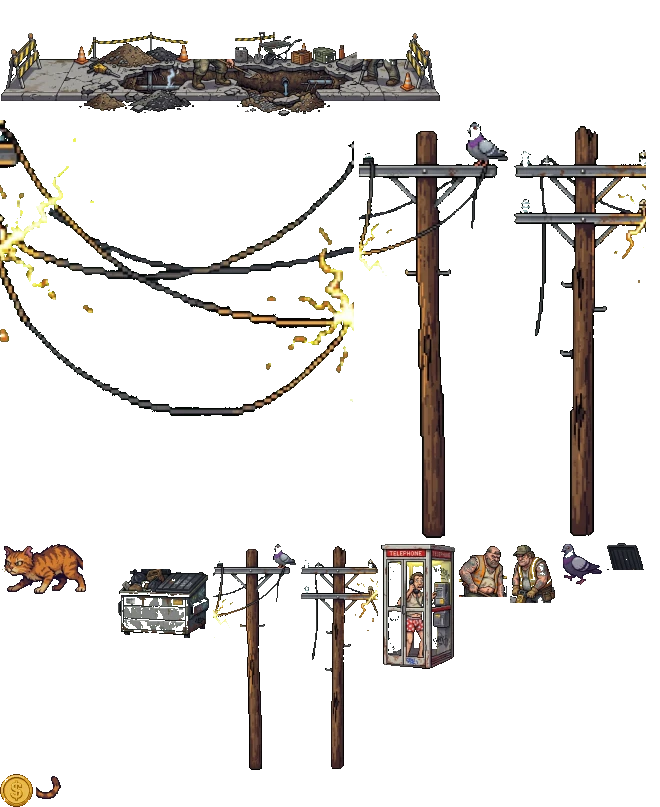
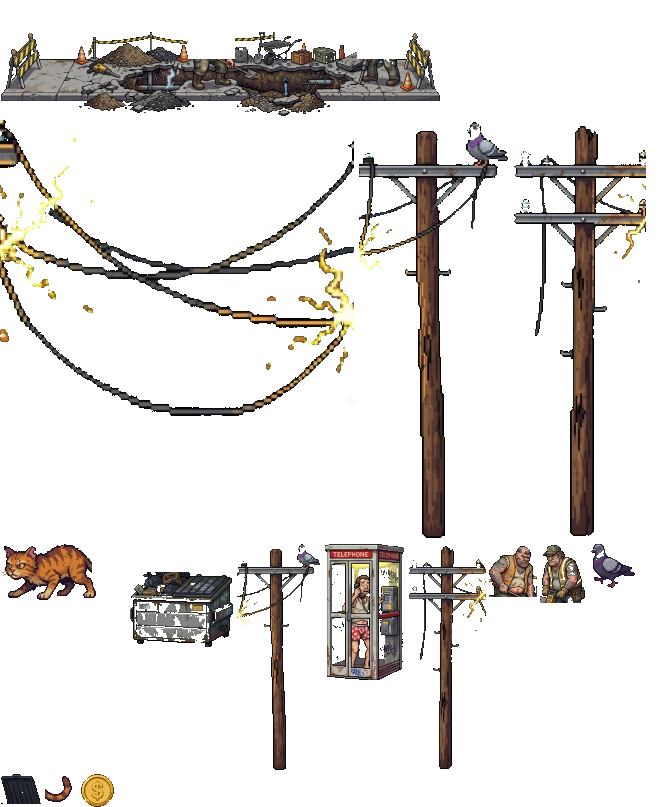
Level 2: financial-district street and scaffolding climb; obstacles 10% bigger and sitting on the ground
Claude-Session: https://claude.ai/code/session_01KrEeTDAb27Eghe9M8znsQu

Changed region(s): [[0.1818, 0.6506, 0.9697, 0.9603], [0.0, 0.6506, 0.1515, 0.7435], [0.0, 0.9603, 0.1818, 1.0]]

diff --git a/index.html b/index.html
@@ -645,10 +645,28 @@ function fogAmt(){const w=G&&G.weather==='fog'?1.5:G&&(G.weather==='rain'||G.wea
 function drawFog(y0,h,a,off,col){const F=fogTint(col),TW=W*1.5;ctx.save();ctx.imageSmoothingEnabled=true;ctx.globalAlpha=Math.min(1,a);let i=Math.floor(off/TW),x=i*TW-off;for(;x<W;x+=TW,i++){if(x+TW<0)continue;if(i&1){ctx.save();ctx.translate(x+TW,0);ctx.scale(-1,1);ctx.drawImage(F,0,y0,TW,h);ctx.restore()}else ctx.drawImage(F,x,y0,TW,h)}ctx.restore()}
 function difficulty(){return G.mode==='trip'?TRIPS[G.trip].diff+.25*clamp(G.genX/G.len,0,1):Math.min(1,G.genX/25000)}
 function nextZone(){G.pi++;const pl=G.plan[G.pi%G.plan.length];G.zone=pl[0];G.zoneEnd=G.genX+(pl[1]||1e9);
- G.marks.push({x:G.genX+20,name:ZNAME[G.zone]});if(G.zone==='scaffold')G.decor.push({k:'site',x0:G.genX+4,x1:null,top:ROOF_Y})}
+ G.marks.push({x:G.genX+20,name:ZNAME[G.zone]});if(G.zone==='scaffold'&&!ART.ready)G.decor.push({k:'site',x0:G.genX+4,x1:null,top:ROOF_Y})}
 const HAZ_AFTER={chinatown:['rat','firecracker'],street:['pigeon','cat'],roof:['bags','wire'],park:['sprinkler','sprinkler'],beach:['crab','crab'],docks:['steam','steam']};
-const CHAIN={chinatown:['noodlecart','veggie','lion','urn'],street:['dumpster','booth','prod3','cpair','roadwork','dumpster'],roof:['duct','solar','skylight','tank'],park:['picnic','hedgebox','fountain','bench'],beach:['surfrack','esky','sandcastle'],docks:['forklift','pallet','barrel','rope']};
-function placeObs(x,w,y,zone,d){const n0=G.obs.length;if(zone==='street'&&w>=250&&ART.ready&&rng()<.2){const bx=x+Math.round((w-147)/2);addObs(bx,y,'rwbase');addObs(bx+64,y-1,'digger').sy=y;addObs(bx+121,y-2,'jack').sy=y;for(let j=0;j<4;j++)addCoin(bx+64+j*5,y-36);for(let j=0;j<4;j++)addCoin(bx+121+j*5,y-38);return}placeObs0(x,w,y,zone,d);if(zone==='street')for(let i=n0;i<G.obs.length;i++)G.obs[i].grit=1;if(PED_ZONES[zone]&&y>=STREET_Y-4&&w>=150&&rng()<.4+.3*d)placePed(x,w,y,zone)}
+const CHAIN={fin:['dumpster','cpair','barri','can','cpair'],chinatown:['noodlecart','veggie','lion','urn'],street:['dumpster','booth','prod3','cpair','roadwork','dumpster'],roof:['duct','solar','skylight','tank'],park:['picnic','hedgebox','fountain','bench'],beach:['surfrack','esky','sandcastle'],docks:['forklift','pallet','barrel','rope']};
+function genScaffold(d){// stepped towers of the scaffolding art, bolted on top of each other: climb deck to deck up to the rooftops
+ const cols=[1,2,3,3],step=Math.round(SCM.dx1-SCM.dx0)-1,X0=G.genX,tw=cols.length*step;
+ addPlat(X0,STREET_Y,tw+10,'street');G.lastPlat.nocue=1;placeObs(X0+30,step*2,STREET_Y,'street',d);
+ G.decor.push({k:'scaf',x0:X0-20,x1:X0+tw+20,X0,cols,step});
+ const decks=[];
+ for(let c=0;c<cols.length;c++)for(let u=0;u<cols[c];u++){const base=STREET_Y-u*SCOFF;
+  for(const [dy,top] of [[SCM.feet-SCM.deckL,0],[SCM.feet-SCM.deckU,u===cols[c]-1]]){const p=addPiece({type:'deck',thin:1,x:X0+c*step,y:Math.round(base-dy),w:step+1});decks.push({p,c,top})}}
+ for(const q of decks){const p=q.p;if(q.c===0&&p.y>STREET_Y-50)continue;
+  if(rng()<.38+.2*d){let k=POOLS.deck[Math.floor(rng()*POOLS.deck.length)];const ox=p.x+Math.round(R(70,p.w-90));const ob=addObs(ox,p.y,k);ob.deck=1;if(ob.solid)for(let j=0;j*9<ob.w-4;j++)addCoin(ob.x+4+j*9,p.y-ob.h-10)}
+  else if(rng()<.5)for(let i=0;i<4;i++)addCoin(p.x+60+i*12,p.y-12)}
+ // coin trail up the first climb
+ for(let i=0;i<3;i++)addCoin(X0+step-70+i*14,STREET_Y-SCOFF-20-i*12);
+ G.genX=X0+tw;G.genY=Math.round(STREET_Y-(cols[cols.length-1]-1)*SCOFF-(SCM.feet-SCM.deckU));
+ const site=null;nextZone();const x=G.genX+2,w=Math.round(R(200,280));addPlat(x,G.genY,w,'roof');placeObs(x,w,G.genY,'roof',d);G.genX=x+w}
+function drawScaf(d,cam){if(!ART.scaf)return;const M=SCM;
+ for(let c=0;c<d.cols.length;c++){const sx=Math.round(d.X0+c*d.step-M.dx0-cam);if(sx>W+10||sx+M.w<-10)continue;
+  for(let u=0;u<d.cols[c];u++){const top=STREET_Y-u*SCOFF-M.feet,cy=u===d.cols[c]-1?0:M.cut;
+   ARTI(ART.scaf,0,Math.round(cy*AS),M.w*AS,Math.round((M.h-cy)*AS),sx,top+cy,M.w,M.h-cy)}}}
+function placeObs(x,w,y,zone,d){const n0=G.obs.length;if(zone==='street'&&!isFin()&&w>=250&&ART.ready&&rng()<.2){const bx=x+Math.round((w-147)/2);addObs(bx,y,'rwbase');addObs(bx+64,y-1,'digger').sy=y;addObs(bx+121,y-2,'jack').sy=y;for(let j=0;j<4;j++)addCoin(bx+64+j*5,y-36);for(let j=0;j<4;j++)addCoin(bx+121+j*5,y-38);return}placeObs0(x,w,y,zone,d);if(zone==='street')for(let i=n0;i<G.obs.length;i++)G.obs[i].grit=1;if(PED_ZONES[zone]&&y>=STREET_Y-4&&w>=150&&rng()<.4+.3*d)placePed(x,w,y,zone)}
 const PED_ZONES={};
 const PED_LOOKS=[{},{T:'R',t:'r',H:'Y',h:'y'},{T:'B',t:'b',H:'D',h:'E',S:'C',s:'c'},{G:'T',g:'t',H:'D',h:'E'},{G:'R',g:'r',S:'C',s:'c',H:'E',h:'E'},{T:'P',t:'R',H:'h',h:'E'},{G:'Y',g:'y',N:'D',n:'E',H:'Y',h:'y'},{G:'B',g:'b',S:'C',s:'c'}];
 function placePed(x,w,y,zone){const obs=G.obs.filter(o=>o.y===y&&o.x+o.w>x&&o.x<x+w).sort((a,b)=>a.x-b.x);let lo=x+16,best=null;
@@ -656,22 +674,23 @@ function placePed(x,w,y,zone){const obs=G.obs.filter(o=>o.y===y&&o.x+o.w>x&&o.x<
  if(!best)return;const p=addObs(best[1]-14,y,'ped');p.lo=best[0];p.hi=best[1]-12;p.dir=-1;p.spd=R(18,30);p.man=rng()<.5;p.look=Math.floor(rng()*PED_LOOKS.length);p.bnc=0}
 function bagPick(pool){if(!G.bag||!G.bag.length){const b=[...new Set(pool)];for(let i=b.length-1;i>0;i--){const j=Math.floor(rng()*(i+1));[b[i],b[j]]=[b[j],b[i]]}G.bag=b}return G.bag.pop()}
 function placeObs0(x,w,y,zone,d){
- if(CHAIN[zone]&&w>=220&&rng()<.35+.25*d){let cx=x+Math.round(R(30,44)),n=0;
-  while(n<3){const opts=CHAIN[zone].filter(k=>cx+OBS[k].w<=x+w-26);if(!opts.length)break;const k=opts[Math.floor(rng()*opts.length)];const ob=addObs(cx,y,k);n++;
-   if(n>1&&rng()<.3+.3*d)addObs(ob.x+Math.round(ob.w*R(.4,.6))-5,y-ob.h,zone==='street'?'pigeon':'bird');else for(let j=0;j*11<ob.w-8;j++)addCoin(ob.x+5+j*11,y-ob.h-10);
-   const gap=Math.round(rng()<.4?0:R(14,24));if(gap>=14&&rng()<.75)addObs(ob.x+ob.w+Math.round((gap-10)/2),y,zone==='street'?(rng()<.5?'pigeon':'cone2'):zone==='beach'?'crab':zone==='docks'?'gull':'bird');
+ const fin=zone==='street'&&isFin(),CH=fin?CHAIN.fin:CHAIN[zone];
+ if(CH&&w>=220&&rng()<.35+.25*d){let cx=x+Math.round(R(30,44)),n=0;
+  while(n<3){const opts=CH.filter(k=>cx+OBS[k].w<=x+w-26);if(!opts.length)break;const k=opts[Math.floor(rng()*opts.length)];const ob=addObs(cx,y,k);n++;
+   if(n>1&&!fin&&rng()<.3+.3*d)addObs(ob.x+Math.round(ob.w*R(.4,.6))-5,y-ob.h,zone==='street'?'pigeon':'bird');else for(let j=0;j*11<ob.w-8;j++)addCoin(ob.x+5+j*11,y-ob.h-10);
+   const gap=Math.round(rng()<.4?0:R(14,24));if(gap>=14&&rng()<.75)addObs(ob.x+ob.w+Math.round((gap-10)/2),y,zone==='street'?(fin?'bag1':rng()<.5?'pigeon':'cone2'):zone==='beach'?'crab':zone==='docks'?'gull':'bird');
    cx=ob.x+ob.w+gap}
   if(n>=1){if(rng()<(G.mode==='trip'?.13:.1)){G.items.push({x:x+w*.5,y:y-60,type:pickPower(),ph:0})}return}}
- let placed=0,ox=x+R(34,50);const nObs=w>90&&rng()<.6+.35*d?1+Math.floor(rng()*(w>170?3:2)):0;const pool=POOLS[zone];
+ let placed=0,ox=x+R(34,50);const nObs=w>90&&rng()<.6+.35*d?1+Math.floor(rng()*(w>170?3:2)):0;const pool=fin?POOLS.fin:POOLS[zone];
  for(let i=0;i<nObs;i++){if(ox>x+w-44)break;
   let k=zone==='street'?bagPick(pool):pool[Math.floor(rng()*pool.length)];if(ox+OBS[k].w>x+w-24){const fits=pool.filter(q=>ox+OBS[q].w<=x+w-24);if(!fits.length)break;k=fits[Math.floor(rng()*fits.length)]}
   const ob=addObs(ox,y,k);placed++;let end=ox+ob.w;
   if(ob.w>=40){const top=y-ob.h;
-   if(rng()<.3+.35*d){const hk=zone==='street'?(rng()<.5?'pigeon':'cat'):k==='skip'?'bag1':(k==='planter'?'dog':(zone==='beach'||zone==='docks')?'gull':'bird');const hz=addObs(ob.x+Math.round(ob.w*R(.45,.65)-OBS[hk].w/2),top,hk);coinArc(hz.x-14,hz.x+hz.w+14,top-hz.h-20)}
+   if(!fin&&rng()<.3+.35*d){const hk=zone==='street'?(rng()<.5?'pigeon':'cat'):k==='skip'?'bag1':(k==='planter'?'dog':(zone==='beach'||zone==='docks')?'gull':'bird');const hz=addObs(ob.x+Math.round(ob.w*R(.45,.65)-OBS[hk].w/2),top,hk);coinArc(hz.x-14,hz.x+hz.w+14,top-hz.h-20)}
    else for(let j=0;j*11<ob.w-8;j++)addCoin(ob.x+5+j*11,top-10);
    ox=end+R(42,78);continue}
   if(k==='crate'&&zone==='roof'&&rng()<.35&&end+16<x+w-24){const st=addObs(end,y,'crates');end+=st.w;for(let j=0;j<2;j++)addCoin(st.x+4+j*8,y-st.h-10)}
-  else if(ob.solid&&ob.h>=12&&HAZ_AFTER[zone]&&rng()<.25+.35*d&&end+34<x+w-24){const hz=addObs(end+2,y,HAZ_AFTER[zone][Math.floor(rng()*2)]);end=hz.x+hz.w}
+  else if(ob.solid&&ob.h>=12&&!fin&&HAZ_AFTER[zone]&&rng()<.25+.35*d&&end+34<x+w-24){const hz=addObs(end+2,y,HAZ_AFTER[zone][Math.floor(rng()*2)]);end=hz.x+hz.w}
   if(ob.solid&&rng()<.5){for(let j=0;j*9<ob.w-4;j++)addCoin(ob.x+4+j*9,y-ob.h-10)}
   else if(rng()<.6)coinArc(ox-18,end+18,y-ob.h-22);
   ox=end+R(42,78)}
@@ -783,6 +802,7 @@ function gen(){
   const x=G.genX+gap,w=Math.round(R(200,360)),y=STREET_Y;
   if(gap>18&&(gap>60||rng()<.6))coinArc(G.genX-6,x+6,y-34-(gap>60?14:0));
   addPlat(x,y,w,'street');placeObs(x,w,y,'street',d);G.genX=x+w;G.genY=y;return}
+ if(G.zone==='scaffold'&&ART.ready){genScaffold(d);return}
  if(G.zone==='scaffold'){
   if(G.genY<=ROOF_Y+1){const site=G.decor[G.decor.length-1];nextZone();if(site&&site.x1==null)site.x1=G.genX+2;
    const x=G.genX+2,w=Math.round(R(200,280));addPlat(x,ROOF_Y,w,'roof');placeObs(x,w,ROOF_Y,'roof',d);G.genX=x+w;G.genY=ROOF_Y;return}
@@ -804,7 +824,7 @@ function gen(){
   if(w>66&&rng()<.4){const k=POOLS.fire[Math.floor(rng()*2)];addObs(x+Math.round(w/2),y,k)}else for(let i=0;i<3;i++)addCoin(x+w/2-12+i*12,y-12);
   G.genX=x+w;G.genY=y;return}
 }
-const OBS={booth:{w:22,h:42,solid:1,b2:1},dumpster:{w:29,h:26,solid:1,b2:1},cat:{w:29,h:15,hazard:'HISSS! ANGRY CAT!',b2:1},pigeon:{w:11,h:11,hazard:'PECKED BY A PIGEON!',b2:1},digger:{w:12,h:22,hazard:'OI! WATCH IT!',b2:1},jack:{w:12,h:24,hazard:'RATATATAT! JACKHAMMERED!',b2:1},rwbase:{w:147,h:1,deco:1,b2:1},tcan:{w:14,h:20,solid:1},stoop:{w:34,h:26,solid:1,spr:1},hyd:{w:11,h:22,solid:1,spr:1},hydy:{w:11,h:22,solid:1,spr:1},bagpile:{w:38,h:19,hazard:'YUCK! GARBAGE!',spr:1},can:{w:19,h:21,solid:1,spr:1},bcan:{w:15,h:20,solid:1,spr:1},bag1:{w:19,h:12,hazard:'YUCK! GARBAGE!',spr:1},roadwork:{w:26,h:22,solid:1,spr:1},boxes2:{w:19,h:20,solid:1,spr:1},boxopen:{w:20,h:14,solid:1,spr:1},cone2:{w:6,h:8,solid:1,spr:1},barri:{w:22,h:21,solid:1,spr:1},gravel:{w:19,h:19,solid:1,spr:1},prod2:{w:16,h:18,solid:1,spr:1},prod1:{w:17,h:18,solid:1,spr:1},crate1:{w:19,h:19,solid:1,spr:1},crate2:{w:20,h:19,solid:1,spr:1},prod3:{w:29,h:17,solid:1,spr:1},drunk:{w:13,h:33,hazard:'HIC! GRUMPY OLD MAN!',spr:1},boxes:{w:18,h:16,solid:1},newsbox:{w:12,h:20,solid:1},case1:{w:14,h:10,solid:1},case2:{w:18,h:16,solid:1},roofbox:{w:30,h:9,solid:1},cone:{w:10,h:14,solid:1},crate:{w:16,h:16,solid:1},crates:{w:16,h:32,solid:1},ac:{w:20,h:14,solid:1},vent:{w:10,h:18,solid:1},chimney:{w:14,h:24,solid:1},tank:{w:22,h:22,solid:1},
+const OBS={booth:{w:24,h:46,solid:1,b2:1},dumpster:{w:32,h:29,solid:1,b2:1},cat:{w:32,h:17,hazard:'HISSS! ANGRY CAT!',b2:1},pigeon:{w:12,h:12,hazard:'PECKED BY A PIGEON!',b2:1},digger:{w:12,h:22,hazard:'OI! WATCH IT!',b2:1},jack:{w:12,h:24,hazard:'RATATATAT! JACKHAMMERED!',b2:1},rwbase:{w:147,h:1,deco:1,b2:1},tcan:{w:14,h:20,solid:1},stoop:{w:34,h:26,solid:1,spr:1},hyd:{w:11,h:22,solid:1,spr:1},hydy:{w:11,h:22,solid:1,spr:1},bagpile:{w:38,h:19,hazard:'YUCK! GARBAGE!',spr:1},can:{w:19,h:21,solid:1,spr:1},bcan:{w:15,h:20,solid:1,spr:1},bag1:{w:19,h:12,hazard:'YUCK! GARBAGE!',spr:1},roadwork:{w:26,h:22,solid:1,spr:1},boxes2:{w:19,h:20,solid:1,spr:1},boxopen:{w:20,h:14,solid:1,spr:1},cone2:{w:6,h:8,solid:1,spr:1},barri:{w:22,h:21,solid:1,spr:1},gravel:{w:19,h:19,solid:1,spr:1},prod2:{w:16,h:18,solid:1,spr:1},prod1:{w:17,h:18,solid:1,spr:1},crate1:{w:19,h:19,solid:1,spr:1},crate2:{w:20,h:19,solid:1,spr:1},prod3:{w:29,h:17,solid:1,spr:1},drunk:{w:13,h:33,hazard:'HIC! GRUMPY OLD MAN!',spr:1},boxes:{w:18,h:16,solid:1},newsbox:{w:12,h:20,solid:1},case1:{w:14,h:10,solid:1},case2:{w:18,h:16,solid:1},roofbox:{w:30,h:9,solid:1},cone:{w:10,h:14,solid:1},crate:{w:16,h:16,solid:1},crates:{w:16,h:32,solid:1},ac:{w:20,h:14,solid:1},vent:{w:10,h:18,solid:1},chimney:{w:14,h:24,solid:1},tank:{w:22,h:22,solid:1},
  bin:{w:14,h:20,solid:1},hydrant:{w:10,h:13,solid:1},bench:{w:40,h:11,solid:1},busstop:{w:72,h:30,solid:1},skip:{w:52,h:20,solid:1},planter:{w:56,h:11,solid:1},duct:{w:84,h:14,solid:1},solar:{w:62,h:14,solid:1},skylight:{w:42,h:9,solid:1},timber:{w:44,h:8,solid:1},postbox:{w:12,h:22,solid:1},aframe:{w:12,h:14,solid:1},
  paint:{w:9,h:10,solid:1},bricks:{w:16,h:10,solid:1},cement:{w:18,h:8,solid:1},toolbox:{w:14,h:9,solid:1},pot:{w:9,h:10,solid:1},
  bags:{w:20,h:12,hazard:'YUCK! GARBAGE!'},wire:{w:28,h:9,hazard:'OUCH! BARBED WIRE!'},fuse:{w:12,h:16,hazard:'ZAPPED!'},tv:{w:13,h:22,hazard:'TANGLED!'},bird:{w:10,h:10,hazard:'PECKED!'},
@@ -814,7 +834,10 @@ const OBS={booth:{w:22,h:42,solid:1,b2:1},dumpster:{w:29,h:26,solid:1,b2:1},cat:
  sprinkler:{w:16,h:14,hazard:'SOAKED!'},magpie:{w:12,h:9,hazard:'SWOOPED BY A MAGPIE!'},crab:{w:12,h:7,hazard:'PINCHED!'},gull:{w:11,h:10,hazard:'SEAGULL ATTACK!'},steam:{w:10,h:30,hazard:'SCALDED!'},nails:{w:18,h:5,hazard:'OUCH! NAILS!'},ped:{w:12,h:22,hazard:'OOF! WALKED INTO SOMEONE!'}};
 const POOLS={highway:['case1','case2','roofbox'],chinatown:['noodlecart','veggie','steamer','urn','lion','rat','bird','rat','firecracker','veggie','bin','steamer'],park:['picnic','hedgebox','fountain','bench','bin','sprinkler','magpie','hedgebox','picnic','bird'],beach:['esky','surfrack','sandcastle','crab','gull','esky','surfrack','bin','crab'],docks:['barrel','pallet','forklift','rope','steam','gull','barrel','crate','crates'],
  street:['hyd','hydy','boxes2','boxopen','cpair','cpair','cone2','roadwork','barri','gravel','prod1','prod2','prod3','bagpile','bag1','drunk','drunk','booth','booth','dumpster','dumpster','cat','cat','pigeon','pigeon','dumpster'],roof:['crate','ac','vent','chimney','tank','duct','duct','solar','solar','skylight','bags','wire','fuse','tv','bird'],
- scaffold:['paint','bricks','cement','toolbox','nails','timber','timber'],fire:['pot','bird']};
+ scaffold:['paint','bricks','cement','toolbox','nails','timber','timber'],fire:['pot','bird'],
+ fin:['can','bcan','bagpile','bag1','dumpster','cpair','barri','can','bag1','cpair'],deck:['can','bcan','bag1','bagpile','cpair','barri']};
+const SCM={"w":256,"h":103,"x0":33,"y0":64,"sc":9.8,"deckU":25.61,"deckL":62.86,"feet":101.84,"cut":20.2,"dx0":6.33,"dx1":250.71,"wall":{"x":257,"w":44,"h":100}},SCOFF=SCM.feet-SCM.deckU;
+function isFin(){return G&&G.mode==='trip'&&G.trip===1}
 function addObs(x,y,k){if(k==='booth'){if(G.lastBooth!=null&&Math.abs(x-G.lastBooth)<320)k='dumpster';else G.lastBooth=x}const o={x:Math.round(x),y,k,w:OBS[k].w,h:OBS[k].h,solid:!!OBS[k].solid,ph:Math.random()*6};G.obs.push(o);return o}
 
 function dustFX(x,y,pw){// pixel dust clouds that roll outward from a jump/landing
@@ -986,6 +1009,7 @@ function update(dt){
  G.shield=Math.max(0,G.shield-dt);G.landT+=dt;
  const rbw=G.power&&G.power.type==='rainbow';
  if(!flying&&(!(G.shield>0)||rbw))for(const o of G.obs){if(o.dead||o.off||OBS[o.k].deco)continue;
+  if(o.deck&&!(G.grounded&&prevX+4<=o.x+1)&&!(o.solid?false:G.vy>0&&prevY<=o.y-o.h+5))continue;
   if(o.solid){if(G.x+4>o.x&&G.x-4<o.x+o.w&&G.y>o.y-o.h+3&&G.y-24<o.y){if(rbw){smash(o);continue}crash('BONK!');return}}
   else if(G.x+3>o.x+2&&G.x-3<o.x+o.w-2&&G.y>o.y-o.h+3&&G.y-22<o.y){if(o.k==='ped'){if(o.bnc>0||rbw)continue;if(G.vy>0&&prevY<=o.y-o.h+7){pedBounce(o);continue}}if((o.k==='bird'||o.k==='gull'||o.k==='magpie'||o.k==='rat'||o.k==='pigeon'||o.k==='cat')&&G.vy>0&&prevY<=o.y-o.h+5){stomp(o);continue}if(rbw){smash(o);continue}if(o.k==='cat'){o.dead=true;o.st='run';o.t=0;sfx(900,300,.25,'sawtooth',.04)}crash(OBS[o.k].hazard);return}}
  // trick progress
@@ -1609,11 +1633,11 @@ function gritify(g,w,h,seed){let id;try{id=g.getImageData(0,0,w,h)}catch(e){retu
   if(hash(p*1.37+seed)<.05){d[i]*=.72;d[i+1]*=.68;d[i+2]*=.66}}g.putImageData(id,0,0)}
 
 
-const RWD=12;
+const RWD=12,OSINK=2;
 function SHD(on){if(on){ctx.shadowColor='rgba(6,0,14,.75)';ctx.shadowBlur=9;ctx.shadowOffsetX=4;ctx.shadowOffsetY=3}else{ctx.shadowColor='transparent';ctx.shadowBlur=0;ctx.shadowOffsetX=0;ctx.shadowOffsetY=0}}
 function O2(k,dx,dy,dw,dh){const Q=OB2[k];ARTI(ART.obs2,Q.x*AS,Q.y*AS,Q.w*AS,Q.h*AS,dx,dy,dw==null?Q.w:dw,dh==null?Q.h:dh)}
 function drawB2(o,x){ctx.save();if(o.k!=='rwbase'&&o.k!=='digger'&&o.k!=='jack')SHD(1);try{drawB2i(o,x)}finally{ctx.restore()}}
-function drawB2i(o,x){const y=o.y,Q=OB2[o.k],t=clock+o.ph,k=o.k;
+function drawB2i(o,x){const y=o.y+(o.k==='rwbase'||o.k==='digger'||o.k==='jack'?0:OSINK),Q=OB2[o.k],t=clock+o.ph,k=o.k;
  if(o.dead&&o.st==='run'&&k==='cat'){// bolts off to the left, galloping
   const g=Math.sin(o.t*26),X=x+Math.round((o.w-Q.w)/2);ctx.save();ctx.translate(X+Q.w/2,y);ctx.rotate(g*.08);ctx.scale(1+.08*g,1-.08*g);O2(k,-Q.w/2,-Q.h-Math.abs(g)*3);ctx.translate(-Q.w/2+CATTAIL[0],-Q.h+CATTAIL[1]+OB2.cattail.h-Math.abs(g)*3);ctx.rotate(-.6);O2('cattail',0,-OB2.cattail.h);ctx.restore();
   if(Math.random()<.3)G.parts.push({x:o.x+o.w,y:y-1,vx:20+Math.random()*30,vy:-15-Math.random()*20,life:.4,col:'#8a8ea8',g:60,s:1});if(o.t<.6)txtB('MRROW!',x+o.w/2,y-Q.h-6,'#ff9a3c','center');return}
@@ -1648,7 +1672,7 @@ const SRIM={};function sprRim(k,col){const key=k+col;let c=SRIM[key];if(c)return
  const t=document.createElement('canvas');t.width=w;t.height=h;const tg=t.getContext('2d');tg.imageSmoothingEnabled=true;tg.drawImage(ART.obs,Q.x*AS,Q.y*AS,Q.w*AS,Q.h*AS,0,0,w,h);tg.globalCompositeOperation='source-in';tg.fillStyle=col;tg.fillRect(0,0,w,h);
  c=document.createElement('canvas');c.width=w+R*2;c.height=h+R*2;const g=c.getContext('2d');g.shadowColor=col;g.shadowBlur=2.5;for(let i=0;i<12;i++){const a=i/12*TAU;g.drawImage(t,R+Math.round(Math.cos(a)*2),R+Math.round(Math.sin(a)*2))}
  g.shadowBlur=0;g.globalCompositeOperation='destination-out';g.imageSmoothingEnabled=true;g.drawImage(ART.obs,Q.x*AS,Q.y*AS,Q.w*AS,Q.h*AS,R,R,w,h);c.R=R;return SRIM[key]=c}
-function drawSprObs(o,x){if(o.k==='cpair'){const a=OBSPR.crate2;drawSprObs({k:'crate2',y:o.y,w:a.w,solid:1,ph:o.ph,off:o.off},x);drawSprObs({k:'crate1',y:o.y,w:OBSPR.crate1.w,solid:1,ph:o.ph,off:o.off},x+a.w-1);return}const Q=OBSPR[o.k],y=o.y,haz=!o.solid,sx=x+Math.round((o.w-Q.w)/2);
+function drawSprObs(o,x){if(o.k==='cpair'){const a=OBSPR.crate2;drawSprObs({k:'crate2',y:o.y,w:a.w,solid:1,ph:o.ph,off:o.off},x);drawSprObs({k:'crate1',y:o.y,w:OBSPR.crate1.w,solid:1,ph:o.ph,off:o.off},x+a.w-1);return}const Q=OBSPR[o.k],y=o.y+OSINK,haz=!o.solid,sx=x+Math.round((o.w-Q.w)/2);
  if(o.k!=='drunk'){ctx.fillStyle='rgba(12,4,24,.45)';ctx.fillRect(sx-1,y-1,Q.w+2,2)}
  const rim=sprRim(o.k,haz?'#ff3a6a':'#b44dff'),R=rim.R/S,ra=(o.off?.25:haz?.65+.3*Math.sin(clock*5+o.ph):.95)*.31;
  ctx.save();ctx.imageSmoothingEnabled=false;
@@ -1890,7 +1914,7 @@ function drawRat(o,cam){const xx=Math.round(o.x-cam),yy=Math.round(o.y),R=rmp('#
  fr(R.b,f(8)-(dir>0?0:2),yy-4,3,2);fr('#ff9aa8',f(11),yy-3,1,1);fr(K,f(9),yy-5,1,1);fr('#ff9aa8',f(7),yy-7,2,2);fr(K,f(7)-1,yy-8,1,1);
  fr(K,f(2),yy-1+st,1,1);fr(K,f(4),yy-st,1,1);fr(K,f(7),yy-1+st,1,1);fr(K,f(9),yy-st,1,1)}
 
-function drawPlat(p,cam){if(p.type==='ramp')return drawSlope(p,cam);if(p.type==='wire')return drawWire(p,cam);if(p.type==='sign')return drawGantry(p,cam);if(p.type==='car')return drawVehicle(p,cam);if(p.type==='hwramp')return drawRamp(p,cam);if(p.type==='cstreet')return drawChinatown(p,cam);if(p.type==='grass')return drawGrass(p,cam);if(p.type==='board')return drawBoard(p,cam);if(p.type==='container')return drawContainer(p,cam);if(p.type==='street')drawStreet(p,cam);else if(p.type==='plank')drawPlank(p,cam);else if(p.type==='fire')drawFire(p,cam);else drawRoof(p,cam)}
+function drawPlat(p,cam){if(p.type==='deck')return;if(p.type==='ramp')return drawSlope(p,cam);if(p.type==='wire')return drawWire(p,cam);if(p.type==='sign')return drawGantry(p,cam);if(p.type==='car')return drawVehicle(p,cam);if(p.type==='hwramp')return drawRamp(p,cam);if(p.type==='cstreet')return drawChinatown(p,cam);if(p.type==='grass')return drawGrass(p,cam);if(p.type==='board')return drawBoard(p,cam);if(p.type==='container')return drawContainer(p,cam);if(p.type==='street')drawStreet(p,cam);else if(p.type==='plank')drawPlank(p,cam);else if(p.type==='fire')drawFire(p,cam);else drawRoof(p,cam)}
 function ring(cx,cy,r,col){ctx.fillStyle=col;for(let a=0;a<TAU;a+=.35)ctx.fillRect(Math.round(cx+Math.cos(a)*r),Math.round(cy+Math.sin(a)*r),1,1)}
 const RMP={};
 function rmp(hex){let r=RMP[hex];if(r)return r;r={b:hex,d:mix(shade(hex,.42),'#2a0e3e',.45),s:mix(shade(hex,.72),'#7a1a6a',.22),l:mix(shade(hex,1.14),'#fff0c8',.12),h:mix(shade(hex,1.32),'#fdffb1',.5)};return RMP[hex]=r}
@@ -2136,10 +2160,11 @@ function render(){
  const camY=Math.round(G.camY);VB=camY+H+2;curCam=cam;
  drawBG(cam);
  ctx.save();ctx.translate(0,-camY);
- for(const d of G.decor)drawSite(d,cam);
+ for(const d of G.decor)if(d.k!=='scaf')drawSite(d,cam);
  drawHwyRoad(cam);
  for(const p of G.plats)if(p.type!=='wire'&&p.type!=='ramp')drawPlat(p,cam);
  wetPass(cam);
+ for(const d of G.decor)if(d.k==='scaf')drawScaf(d,cam);
  if(!HIDEHAND||1){const fa=fogAmt();drawFog(Math.round((G.lastLand||STREET_Y)-52),70,.48*fa,cam*1.1+clock*16,fogCol());drawFog(Math.round((G.lastLand||STREET_Y)-150),120,.12*fa,cam*.9+clock*7+500,fogCol())}
  for(const p of G.plats)if(p.type==='wire'||p.type==='ramp')drawPlat(p,cam);
  drawRopes(cam);drawZips(cam);
@@ -2428,10 +2453,10 @@ const DWC=document.createElement('canvas');DWC.width=W*S;DWC.height=H*S;const dw
 
 // ======================= ART PACK: record-store intro, high-street facades, cast =======================
 const ART={n:0,ready:false};
-const OB2={"rwbase":{"x":0,"y":0,"w":147,"h":39},"span":{"x":0,"y":40,"w":118,"h":110},"poleR2":{"x":119,"y":40,"w":51,"h":140},"poleL2":{"x":171,"y":40,"w":45,"h":140},"cat":{"x":0,"y":181,"w":38,"h":17},"dumpster":{"x":39,"y":181,"w":31,"h":32},"poleR":{"x":71,"y":181,"w":28,"h":76},"poleL":{"x":100,"y":181,"w":26,"h":76},"booth":{"x":127,"y":181,"w":25,"h":42},"digger":{"x":153,"y":181,"w":16,"h":18},"jack":{"x":170,"y":181,"w":16,"h":20},"pigeon":{"x":187,"y":181,"w":14,"h":14},"dumplid":{"x":202,"y":181,"w":13,"h":9},"coin":{"x":0,"y":258,"w":11,"h":11},"cattail":{"x":12,"y":258,"w":10,"h":9}},CATTAIL=[27.7, 1.71],DLID=[5.5, 0.0],WPROF=[-35,-35,-34,-29,-21,-10,-2,6,18,21,33,40,46,52,52,42,53,76,81,87,92,97,102,106,111,112,114,119,119,123,123,125,127,130,133,135,136,138,139,141,143,143,143,144,146,146,146,147,149,151,151,151,151,151,151,151,148,146,146,142,141,136,135,133,130,129,124,123,120,119,115,113,109,108,103,100,96,92,92,87,82,78,74,68,63,58,54,50,44,39,34,28,18,-13];
-const HSEGS=[{"x":0,"w":27,"h":178,"y":[0,0,0],"d":0},{"x":27,"w":177,"h":178,"y":[0,0,0],"d":0},{"x":204,"w":89,"h":178,"y":[0,0,0],"d":0},{"x":293,"w":85,"h":178,"y":[0,0,0],"d":0},{"x":378,"w":94,"h":178,"y":[0,0,0],"d":0},{"x":10,"w":136,"h":184,"y":[178,178,178],"d":1},{"x":146,"w":46,"h":184,"y":[178,178,178],"d":1},{"x":192,"w":88,"h":184,"y":[178,178,178],"d":1},{"x":280,"w":88,"h":184,"y":[178,178,178],"d":1},{"x":368,"w":97,"h":184,"y":[178,178,178],"d":1},{"x":0,"w":103,"h":114,"y":[362,362,362],"d":2},{"x":103,"w":129,"h":114,"y":[362,362,362],"d":2}],OBSPR={"stoop":{"x":0,"y":0,"w":42,"h":31},"hyd":{"x":43,"y":0,"w":16,"h":27},"hydy":{"x":60,"y":0,"w":16,"h":27},"bagpile":{"x":77,"y":0,"w":48,"h":28},"can":{"x":126,"y":0,"w":23,"h":27},"bcan":{"x":150,"y":0,"w":19,"h":25},"bag1":{"x":170,"y":0,"w":24,"h":19},"roadwork":{"x":0,"y":32,"w":32,"h":26},"boxes2":{"x":33,"y":32,"w":24,"h":25},"barsign":{"x":58,"y":32,"w":18,"h":45},"open24":{"x":77,"y":32,"w":28,"h":21},"boxopen":{"x":106,"y":32,"w":27,"h":18},"cone2":{"x":134,"y":32,"w":10,"h":12},"barri":{"x":145,"y":32,"w":28,"h":26},"gravel":{"x":174,"y":32,"w":26,"h":25},"prod2":{"x":0,"y":78,"w":20,"h":24},"prod1":{"x":21,"y":78,"w":21,"h":23},"crate1":{"x":43,"y":78,"w":23,"h":23},"crate2":{"x":67,"y":78,"w":24,"h":23},"prod3":{"x":92,"y":78,"w":36,"h":22},"drunk":{"x":129,"y":78,"w":26,"h":42}},HSREC=7,HM={"w":40,"h":40,"pIdx":[27.72,19.98],"pMid":[23.99,22.36],"tIdx":[40.44,30.67],"tMid":[22.29,39.15],"wrist":[[7.36,2.0],[4.31,5.73]],"kIdx":[34.08,25.33],"kMid":[23.14,30.76]},HSC=1;
-for(const k in OBSPR){const o=OBS[k];if(o&&o.spr){o.w=k==='drunk'?16:OBSPR[k].w;o.h=k==='drunk'?40:(o.hazard?OBSPR[k].h-2:OBSPR[k].h)}}OBS.cpair={solid:1,spr:1,w:OBSPR.crate2.w+OBSPR.crate1.w-1,h:Math.max(OBSPR.crate1.h,OBSPR.crate2.h)};
-(function loadArt(){const L=['store','street','mum','boy','car','obs','obs2','pave',];for(const k of L){const im=new Image();im.onload=()=>{ART[k]=im;if(++ART.n===L.length){ART.ready=true;ART.hand=false;if(G)for(const p of G.plats){p._fc=null}}};im.onerror=()=>{};im.src='art/'+k+'.webp'}})();
+const OB2={"rwbase":{"x":0,"y":0,"w":147,"h":39},"span":{"x":0,"y":40,"w":118,"h":110},"poleR2":{"x":119,"y":40,"w":51,"h":140},"poleL2":{"x":171,"y":40,"w":45,"h":140},"cat":{"x":0,"y":181,"w":42,"h":19},"dumpster":{"x":43,"y":181,"w":35,"h":35},"poleR":{"x":79,"y":181,"w":28,"h":76},"booth":{"x":108,"y":181,"w":27,"h":46},"poleL":{"x":136,"y":181,"w":26,"h":76},"digger":{"x":163,"y":181,"w":16,"h":18},"jack":{"x":180,"y":181,"w":16,"h":20},"pigeon":{"x":197,"y":181,"w":15,"h":15},"dumplid":{"x":0,"y":258,"w":14,"h":10},"cattail":{"x":15,"y":258,"w":11,"h":10},"coin":{"x":27,"y":258,"w":11,"h":11}},CATTAIL=[30.7, 1.89],DLID=[6.0, 0.0],WPROF=[-35,-35,-34,-29,-21,-10,-2,6,18,21,33,40,46,52,52,42,53,76,81,87,92,97,102,106,111,112,114,119,119,123,123,125,127,130,133,135,136,138,139,141,143,143,143,144,146,146,146,147,149,151,151,151,151,151,151,151,148,146,146,142,141,136,135,133,130,129,124,123,120,119,115,113,109,108,103,100,96,92,92,87,82,78,74,68,63,58,54,50,44,39,34,28,18,-13];
+const HSEGS=[{"x":0,"w":27,"h":178,"y":[0,0,0],"d":0},{"x":27,"w":177,"h":178,"y":[0,0,0],"d":0},{"x":204,"w":89,"h":178,"y":[0,0,0],"d":0},{"x":293,"w":85,"h":178,"y":[0,0,0],"d":0},{"x":378,"w":94,"h":178,"y":[0,0,0],"d":0},{"x":10,"w":136,"h":184,"y":[178,178,178],"d":1},{"x":146,"w":46,"h":184,"y":[178,178,178],"d":1},{"x":192,"w":88,"h":184,"y":[178,178,178],"d":1},{"x":280,"w":88,"h":184,"y":[178,178,178],"d":1},{"x":368,"w":97,"h":184,"y":[178,178,178],"d":1},{"x":0,"w":103,"h":114,"y":[362,362,362],"d":2},{"x":103,"w":129,"h":114,"y":[362,362,362],"d":2},{"x":10,"w":141,"h":184,"y":[476,476,476],"d":3},{"x":151,"w":120,"h":184,"y":[476,476,476],"d":3},{"x":271,"w":190,"h":184,"y":[476,476,476],"d":3}],OBSPR={"stoop":{"x":0,"y":0,"w":46,"h":35},"hyd":{"x":47,"y":0,"w":17,"h":30},"hydy":{"x":65,"y":0,"w":17,"h":30},"bagpile":{"x":83,"y":0,"w":52,"h":31},"can":{"x":136,"y":0,"w":25,"h":29},"bcan":{"x":162,"y":0,"w":21,"h":28},"bag1":{"x":0,"y":36,"w":27,"h":20},"roadwork":{"x":28,"y":36,"w":35,"h":29},"boxes2":{"x":64,"y":36,"w":26,"h":27},"barsign":{"x":91,"y":36,"w":20,"h":49},"open24":{"x":112,"y":36,"w":30,"h":23},"boxopen":{"x":143,"y":36,"w":30,"h":20},"cone2":{"x":174,"y":36,"w":11,"h":13},"barri":{"x":0,"y":86,"w":30,"h":29},"gravel":{"x":31,"y":86,"w":28,"h":28},"prod2":{"x":60,"y":86,"w":22,"h":27},"prod1":{"x":83,"y":86,"w":23,"h":26},"crate1":{"x":107,"y":86,"w":26,"h":26},"crate2":{"x":134,"y":86,"w":26,"h":26},"prod3":{"x":0,"y":116,"w":40,"h":25},"drunk":{"x":41,"y":116,"w":28,"h":46}},HSREC=7,HM={"w":40,"h":40,"pIdx":[27.72,19.98],"pMid":[23.99,22.36],"tIdx":[40.44,30.67],"tMid":[22.29,39.15],"wrist":[[7.36,2.0],[4.31,5.73]],"kIdx":[34.08,25.33],"kMid":[23.14,30.76]},HSC=1;
+for(const k in OBSPR){const o=OBS[k];if(o&&o.spr){o.w=k==="drunk"?18:OBSPR[k].w;o.h=k==="drunk"?44:(o.hazard?OBSPR[k].h-2:OBSPR[k].h)}}OBS.cpair={solid:1,spr:1,w:OBSPR.crate2.w+OBSPR.crate1.w-1,h:Math.max(OBSPR.crate1.h,OBSPR.crate2.h)};
+(function loadArt(){const L=['store','street','mum','boy','car','obs','obs2','pave','scaf'];for(const k of L){const im=new Image();im.onload=()=>{ART[k]=im;if(++ART.n===L.length){ART.ready=true;ART.hand=false;if(G)for(const p of G.plats){p._fc=null}}};im.onerror=()=>{};im.src='art/'+k+'.webp'}})();
 function ARTI(img,...a){const sm=ctx.imageSmoothingEnabled;ctx.imageSmoothingEnabled=true;ctx.imageSmoothingQuality='high';ctx.drawImage(img,...a);ctx.imageSmoothingEnabled=sm}
 const HSLAMP={0:[[22,120]],4:[[68,100]],5:[[21.5,110]],8:[[70,108]],11:[[101.8,31.4]]};
 function lampFlick(id){const t=clock,h=hash(id*3.7);if(h<.45)return .85+.15*Math.sin(t*7+id);if(h<.75){const f=Math.sin(t*31+id)*Math.sin(t*7.3+id*2)+Math.sin(t*1.3+id);return f>.2?1:f>-.4?.35:0}const s2=Math.floor(t*12+id*5);return hash(s2*1.7+id)<.7||(t+h*9)%5>.8?1:.05}
@@ -2440,12 +2465,13 @@ function drawLamps(p,x,y){if(!ART.ready)return;const L=hsList(p,-x+W+10);for(con
    neonGlow(lx,ly+1,22,16,'#ffd890',.75*f);ctx.save();ctx.globalCompositeOperation='lighter';ctx.globalAlpha=.10*f;ctx.fillStyle='#ffcf80';ctx.beginPath();ctx.moveTo(lx-3,ly+2);ctx.lineTo(lx+3,ly+2);ctx.lineTo(lx+22,y);ctx.lineTo(lx-22,y);ctx.fill();ctx.restore();lightPool(lx,y+3,26,4,'#ffd890',.5*f)})}}
 function hsWorld(need){// one continuous row of buildings along the whole street (world coordinates)
  let Wl=G.hsw;if(!Wl)Wl=G.hsw={L:[],o:-320,i:0};const L=Wl.L,N=HSEGS.length,trip=G.mode==='trip'&&G.trip===0,seed=G.mode==='trip'?TRIPS[G.trip].seed:7;
- while(Wl.o<need){const o=Wl.o,i=Wl.i;let dist=-1;if(trip){const f=o/Math.max(1,G.len);dist=f<.34?0:f<.67?1:2}
-  let k,g=0;do{const r=hash(seed*3+i*29+g*7.7);if(dist>=0&&hash(seed*5+i*17+g)<.72){const own=HSEGS.map((q,j)=>j).filter(j=>HSEGS[j].d===dist);k=own[Math.floor(r*own.length)]}else k=Math.floor(r*N);g++}
+ const fin=G.mode==='trip'&&G.trip===1;
+ while(Wl.o<need){const o=Wl.o,i=Wl.i;let dist=-1;if(trip){const f=o/Math.max(1,G.len);dist=f<.34?0:f<.67?1:2}else if(fin)dist=3;
+  let k,g=0;do{const r=hash(seed*3+i*29+g*7.7);if(dist>=0&&(dist===3||hash(seed*5+i*17+g)<.72)){const own=HSEGS.map((q,j)=>j).filter(j=>HSEGS[j].d===dist);k=own[Math.floor(r*own.length)]}else{const pool=HSEGS.map((q,j)=>j).filter(j=>HSEGS[j].d!==3);k=pool[Math.floor(r*pool.length)]}g++}
   while(g<9&&(L.length&&L[L.length-1].k===k||L.length>1&&L[L.length-2].k===k));
   if(trip&&!Wl.rec&&o+HSEGS[HSREC].w>40){k=HSREC;Wl.rec=1}
   const sg=HSEGS[k];L.push({o,w:sg.w,k,v:0,s:seed+i});Wl.o+=sg.w;
-  const gh=hash(seed*5+i*11);if(gh<.22){const gw=gh<.11?18:Math.round(4+hash(seed+i*3)*8);L.push({o:Wl.o,w:gw,k:-1,dec:gw>=18?(hash(seed+i*9)<.5?'barsign':'open24'):null});Wl.o+=gw}Wl.i++}
+  const gh=fin?1:hash(seed*5+i*11);if(gh<.22){const gw=gh<.11?18:Math.round(4+hash(seed+i*3)*8);L.push({o:Wl.o,w:gw,k:-1,dec:gw>=18?(hash(seed+i*9)<.5?'barsign':'open24'):null});Wl.o+=gw}Wl.i++}
  return L}
 function hsList(p,need){const fw=p.fw||p.w,L=hsWorld(p.x+Math.min(fw,need)+200),x0=p.x,x1=p.x+Math.min(fw,need+200);
  const out=[];for(const b of L){if(b.o+b.w<x0-2||b.o>x1)continue;out.push({o:b.o-p.x,w:b.w,k:b.k,v:b.v,s:b.s,dec:b.dec})}
